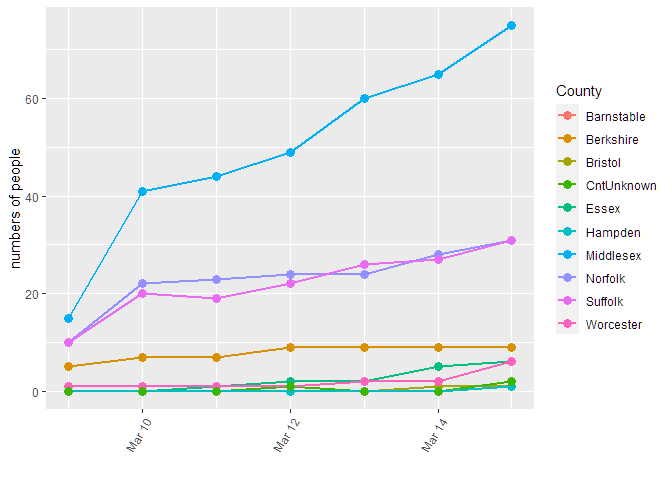
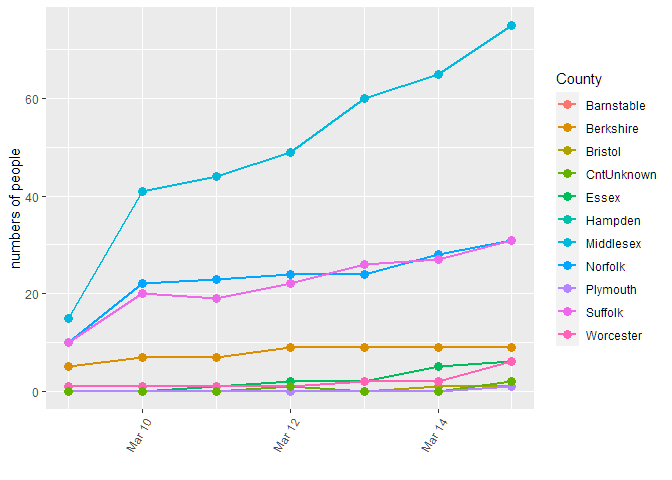
minor update

diff --git a/Report_MA.md b/Report_MA.md
@@ -40,7 +40,7 @@ Here’s some detailed information about the people who are diagnoised
 positive. Here are the distribution by county:
 
 ``` r
-covMasDetCntlong <- gather(covMasDet%>% select(-X) %>% select(date,Barnstable,Berkshire,Bristol,Essex,Hampden,Middlesex,Norfolk,Suffolk,Worcester,CntUnknown), key="key", value="value", -date)
+covMasDetCntlong <- gather(covMasDet%>% select(-X) %>% select(date,Barnstable,Berkshire,Bristol,Essex,Hampden,Middlesex,Norfolk,Plymouth,Suffolk,Worcester,CntUnknown), key="key", value="value", -date)
 names(covMasDetCntlong)[2] <- "County"
 covMasDetCntlong %>% ggplot(aes(as.Date(date, "%Y-%m-%d"),value,color=County))+geom_line(size=1)+geom_point(size=3)+ylab("numbers of people")+xlab("")+theme(axis.text.x = element_text(angle = 60, hjust = 1))
 ```
